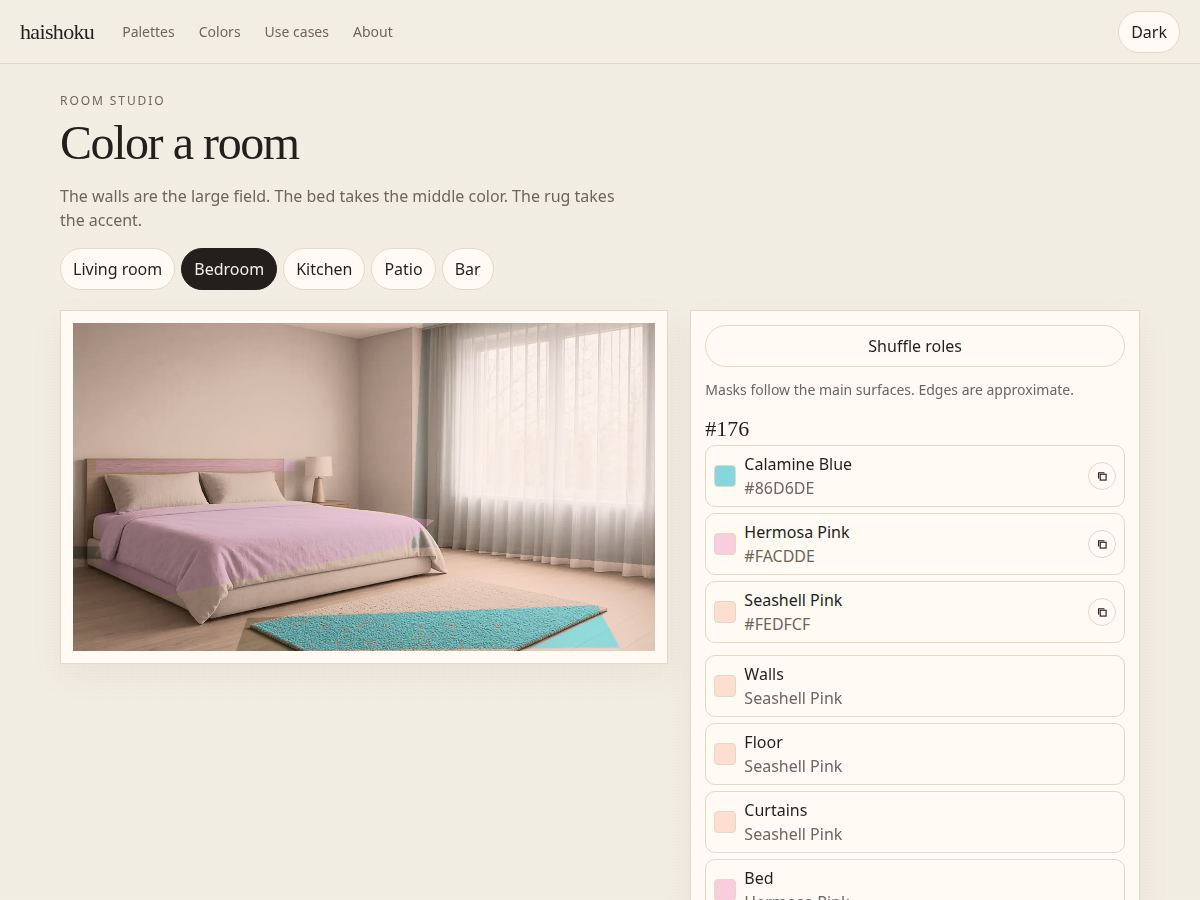
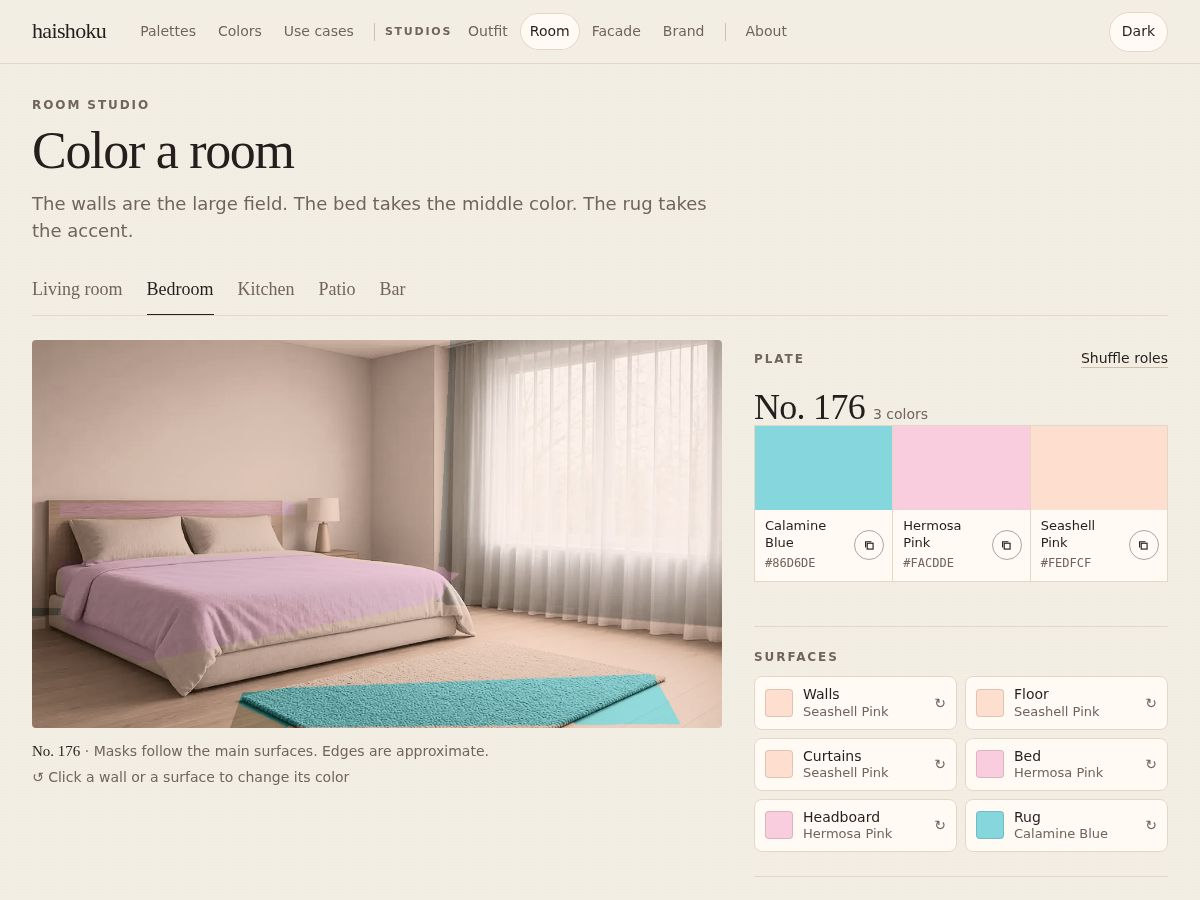
docs: changelog, local preview in CONTRIBUTING, ADR, retaken screenshots

diff --git a/CHANGELOG.md b/CHANGELOG.md
@@ -2,6 +2,19 @@
 
 All notable changes to this project are documented here.
 
+## Unreleased — viewer
+
+The use-case pages read like a printed color book.
+
+- Every page reaches every other page. The desktop bar lists the four studios beside Palettes, Colors, Use cases, and About, and marks the page you are on. The phone menu groups Browse and Studios and has a Close button.
+- The use-cases hub is a contents page. Outfit and Rooms lead with photographs from the studios and the default plate under each. Facade and Brand follow. Illustration and events are listed as uses of the plates, not as studios.
+- The studios are spreads: the photograph on the left, a legend on the right in labeled groups (Look, Plate, On the figure or Surfaces, Find a combination). The plate in play is shown as equal chips with a round copy button on each. The stage shows a quiet placeholder while the photograph loads, and a "Try again" button if it fails.
+- The combination picker works from the keyboard. Arrow keys move through the list and the stage follows, Home and End jump, and "Show more" replaces the 40-row cap. Studios accept an optional `#plate=176` in the URL. Old URLs open the same defaults.
+- Room scenes are a proper tab list (arrow keys switch rooms). Shuffle roles now changes the roles on Rooms, Facade, and Brand. Before, the colors were re-sorted by lightness after the shuffle, so nothing moved.
+- Type, spacing, radius, and motion are CSS tokens in `viewer/css/site.css`. Hex labels are 12px instead of 10px. Copy buttons have a 46px hit area and briefly show a check. Motion is short and stops under reduced motion.
+- `scripts/sync_viewer_chrome.py` writes the same header, menu, and footer into all eight pages.
+- README screenshots are retaken.
+
 ## 1.4.0 — 2026-11-27
 
 The dataset is published on Kaggle as an analysis-ready package.

diff --git a/CONTRIBUTING.md b/CONTRIBUTING.md
@@ -42,7 +42,7 @@ Spellings that look unusual (Cerulian, Antwarp, Vandar Poel's, Vistoris, Kronber
 
 ## Change the viewer or the docs
 
-The viewer is `viewer/index.html`. It reads `viewer/palette-data.js`, which is generated. Change the page, then regenerate the data file if the JSON changed, and open `viewer/index.html` directly in a browser as well as through a local server. Both should work: the data is a classic script, not a `fetch`, so a double-click loads it.
+The viewer is `viewer/index.html`. It reads `viewer/palette-data.js`, which is generated. Change the page, then regenerate the data file if the JSON changed, and preview it through a local server: run `python3 -m http.server 8000` from the repository root and open http://localhost:8000/viewer/. A double-click (`file://`) does not work, because the pages are ES modules and the studios fetch their catalogs. The header, menu, and footer are shared: edit `scripts/sync_viewer_chrome.py` and run it, rather than editing the eight pages by hand.
 
 Docs live in `docs/` and the README. If you rename a column, update the data dictionary, `llms.txt`, and the validator together.
 

diff --git a/docs/decisions/0001-shared-viewer-chrome-and-studio-module.md b/docs/decisions/0001-shared-viewer-chrome-and-studio-module.md
@@ -1,0 +1,16 @@
+# 0001. Shared viewer chrome and studio module, no build step
+
+Date: 2026-11-27. Status: accepted.
+
+## Context
+
+The eight viewer pages each had a hand-copied header, menu, and footer, and the copies had drifted apart: the desktop bar left out the studios. The four studios each built their own panel markup. The viewer must stay a static GitHub Pages site with no bundler.
+
+## Decision
+
+- `scripts/sync_viewer_chrome.py` (standard library) writes one header, menu, and footer into every page. The HTML stays static, so the navigation works before any script runs.
+- `viewer/js/studio.js` holds the stage, the plate legend, assignment buttons, copy feedback, the `#plate=` hash, and the loading and error states. `viewer/js/scene-studio.js` runs Room and Facade from one module. The page scripts only configure them.
+
+## Consequences
+
+Change the navigation in the script and run it, not in the pages. CI does not run the script. A page edited by hand will be overwritten the next time someone syncs.
